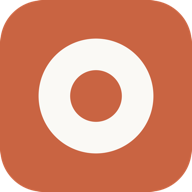
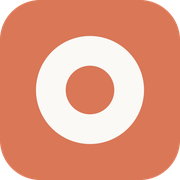
手机页面：跟随电脑主题（雾灰）、图标换成和电脑一致的圆环、过渡动画更顺、键盘弹出时输入框贴近键盘

diff --git a/mobile/app.js b/mobile/app.js
@@ -72,20 +72,16 @@ const ic = (n, cls = '') => `<svg class="i ${cls}" viewBox="0 0 24 24">${ICONS[n
 // Claude 的星芒：12 道粗细渐变、长短和角度略有参差的圆头光芒，围着一个实心的核。
 // 加载时（live）整体缓慢转动，每道光芒错开节拍一伸一缩，像在呼吸；writing 是更快的一档
 function spark(size = 28, live = false) {
-  const lens = [10, 7.6, 9.4, 7, 10.2, 7.5, 9.6, 6.8, 9.8, 7.3, 10, 7.8];
-  const tilt = [0, 2, -3, 1, 3, -2, 0, 2, -3, 1, 3, -1];
-  const rays = lens.map((l, i) => {
-    const t = (l - 1).toFixed(2);
-    return `<g transform="rotate(${i * 30 + tilt[i]})"><path class="r" style="--i:${i}" d="M-1.9 -0.8L-1 -${t}A1 1 0 0 1 1 -${t}L1.9 -0.8Z"/></g>`;
-  }).join('');
-  return `<svg class="spark${live ? ` live${live === 'writing' ? ' writing' : ''}` : ''}" width="${size}" height="${size}" viewBox="-11 -11 22 22" fill="currentColor" stroke="none"><circle r="2"/>${rays}</svg>`;
+  // 和电脑端的图标是同一个圆环（外圆 : 内圆 = 0.30 : 0.135）。思考中 = 圆环一呼一吸；正在写字 = 缺一段的圆环转圈，和电脑上的动画一样
+  const cls = 'spark' + (live ? ' live' + (live === 'writing' ? ' writing' : '') : '');
+  return `<svg class="${cls}" width="${size}" height="${size}" viewBox="-11 -11 22 22" fill="none" stroke="currentColor" stroke-width="5.5"><circle class="sr" r="7.25"/></svg>`;
 }
 
 function toast(text, ms = 2400) {
   document.querySelectorAll('.toast').forEach((t) => t.remove());
   const t = el('div', 'toast', esc(text));
   document.body.appendChild(t);
-  setTimeout(() => t.remove(), ms);
+  setTimeout(() => { t.classList.add('out'); setTimeout(() => t.remove(), 220); }, ms);
 }
 
 async function copyText(t) {
@@ -438,6 +434,18 @@ function applyPrefs() {
   r.style.setProperty('--msg-fs', { s: '15px', m: '16px', l: '17.5px', xl: '19px' }[prefs.size || 'm']);
 }
 applyPrefs();
+// 主题跟着电脑走：电脑上用「雾灰」，手机页面也换成对应的灰白风格和按时间分段的列表；旧版电脑没有这个字段就是默认主题
+const slateUi = () => document.documentElement.dataset.ui === 'slate';
+function applyUi() {
+  const ui = info && info.uiStyle === 'slate' ? 'slate' : 'classic';
+  const r = document.documentElement;
+  if (r.dataset.ui === ui) return;
+  r.dataset.ui = ui;
+  try { localStorage.setItem('crUi', ui); } catch (_) {}
+  if (window.setThemeColor) window.setThemeColor(prefs.theme || '');
+  if (typeof renderDrawerList === 'function' && document.querySelector('#d-list')) renderDrawerList();
+}
+let groupFilter = ''; // 雾灰主题：只看某个分组
 const openPreview = new Set();
 const askPicks = {};
 
@@ -468,6 +476,7 @@ async function refreshInfo() {
   const r = await call('info');
   if (r.ok === false) return;
   info = r;
+  applyUi();
   if (verOlder(r.hostVersion, NEED_HOST)) hostTooOld(`「${pair.name}」上的 Claude 远程助手${r.hostVersion ? '是 ' + r.hostVersion + '，' : '版本'}比较旧，手机上的部分功能用不了。`);
   try { crStore.setItem('crInfo', JSON.stringify(r)); } catch (_) {}
   if (pair && r.name && r.name !== pair.name) { pair.name = r.name; crStore.setItem('crPair', JSON.stringify(pair)); }
@@ -487,6 +496,7 @@ async function loadList() {
 
 // ---------- 页面骨架 ----------
 function boot() {
+  applyUi();
   const app = $('#app');
   app.innerHTML = '';
   if (pairing) return renderPairing(app);
@@ -564,10 +574,15 @@ function wire() {
   // 输入法弹出：整个界面贴着可视区域（iOS 会把页面往上推，这里抵消回来），输入框始终在键盘正上方
   if (window.visualViewport) {
     const vv = window.visualViewport;
+    let fullH = 0;
+    window.addEventListener('orientationchange', () => { fullH = 0; });
     const fit = () => {
       const app = $('#app');
       if (!app) return;
       app.style.height = vv.height + 'px';
+      // 键盘开着时，输入框下面不用再给屏幕底部的横条留位置（那一截会变成输入框和键盘之间的空白）
+      fullH = Math.max(fullH, vv.height);
+      app.classList.toggle('kb', vv.height < fullH - 150);
       app.style.transform = vv.offsetTop ? `translateY(${vv.offsetTop}px)` : '';
       if (stick) scrollBottom(true);
     };
@@ -657,6 +672,20 @@ function dragToClose(handle, panel, close, axis = 'y') {
     } else panel.style.transform = '';
     g = null;
   });
+}
+
+// 展开 / 收起的高度过渡：列表分段、步骤详情都用这一个
+function foldHeight(box, from, to, done) {
+  box.style.overflow = 'hidden';
+  box.style.height = from + 'px';
+  box.style.transition = 'none';
+  void box.offsetHeight;
+  box.style.transition = 'height .26s cubic-bezier(.32, .72, 0, 1)';
+  box.style.height = to + 'px';
+  let fired = false;
+  const end = () => { if (fired) return; fired = true; box.style.transition = ''; box.style.height = ''; box.style.overflow = ''; if (done) done(); };
+  box.addEventListener('transitionend', end, { once: true });
+  setTimeout(end, 320);
 }
 
 function drawer(on) {
@@ -991,7 +1020,11 @@ function renderSteps(list, key) {
   const labels = [...new Set(list.map((b) => b.label))];
   const text = running ? stepLine(running) : list.length > 1 ? labels.slice(0, 3).join('、') + (labels.length > 3 ? ' 等' : '') + ` · ${list.length} 步` : stepLine(list[0]);
   const head = el('button', 'sh', `<span class="ico">${ic(toolIcon(last.name))}</span><span class="sl">${esc(text)}</span>${running ? '<i class="st running"></i>' : ''}${ic('chevR', 'chev')}`);
-  head.onclick = () => { if (openSteps.has(key)) openSteps.delete(key); else openSteps.add(key); box.classList.toggle('open'); };
+  head.onclick = () => {
+    const sb = box.querySelector(':scope > .sb');
+    if (openSteps.has(key)) { openSteps.delete(key); if (sb) foldHeight(sb, sb.offsetHeight, 0, () => box.classList.remove('open')); else box.classList.remove('open'); box.classList.add('closing'); setTimeout(() => box.classList.remove('closing'), 330); }
+    else { openSteps.add(key); box.classList.add('open'); if (sb) foldHeight(sb, 0, sb.scrollHeight); }
+  };
   box.appendChild(head);
   const body = el('div', 'sb');
   list.forEach((b, i) => {
@@ -1528,7 +1561,14 @@ function sheet(fill) {
   dragToClose(s, s, closeSheet);
   return body;
 }
-function closeSheet() { document.querySelectorAll('.sheet-wrap').forEach((x) => x.remove()); }
+// 关闭弹层：面板滑下去、遮罩淡出，放完再拿掉（直接拿掉会「啪」一下消失）
+function closeSheet() {
+  document.querySelectorAll('.sheet-wrap:not(.out)').forEach((x) => {
+    x.classList.add('out');
+    x.style.pointerEvents = 'none';
+    setTimeout(() => x.remove(), 240);
+  });
+}
 
 function switchRow(label, on, onChange, iconName) {
   const li = el('button', 'li', `${ic(iconName)}<div class="tx">${label}</div><span class="sw${on ? ' on' : ''}"></span>`);
@@ -1800,11 +1840,16 @@ function renderDrawerList() {
     const gi = key === '__pinned' ? 'pin' : g ? 'folder' : 'list';
     const head = el('div', 'dsec' + (g ? ' grp' : ''), `<button class="dsh">${ic('chevD', 'dchev' + (closed ? ' closed' : ''))}<span class="dgi">${ic(gi)}</span><span class="dgn">${esc(title)}</span><em>${arr.length || ''}</em></button>`);
     head.querySelector('.dsh').onclick = () => {
-      if (collapsed.has(key)) collapsed.delete(key); else collapsed.add(key);
+      const closing = !collapsed.has(key);
+      if (closing) collapsed.add(key); else collapsed.delete(key);
       prefs.collapsed = [...collapsed];
       savePrefs();
+      const cur = head.nextElementSibling && head.nextElementSibling.classList.contains('dbody') ? head.nextElementSibling : null;
+      if (closing && cur) { head.querySelector('.dchev').classList.add('closed'); return foldHeight(cur, cur.offsetHeight, 0, renderDrawerList); }
       renderDrawerList();
+      if (!closing) { const nb = [...box.querySelectorAll('.dsec')].find((h) => h.dataset.key === key); const body = nb && nb.nextElementSibling; if (body && body.classList.contains('dbody')) foldHeight(body, 0, body.scrollHeight); }
     };
+    head.dataset.key = key;
     if (g) {
       const more = el('button', 'dmore', ic('dots'));
       more.onclick = () => groupSheet(g);
@@ -1819,6 +1864,62 @@ function renderDrawerList() {
       if (body.children.length) box.appendChild(body);
     }
   };
+  if (slateUi()) {
+    // 和电脑上「雾灰」主题一样：置顶 → 我的分组（默认收起，点一个就只看它）→ 今天 / 昨天 / 本周更早 / 各月份 → 历史版本
+    const gs = groups.filter((g) => !g.fixed && (!g.serverId || !vs || g.serverId === vs));
+    const fixed = new Set(groups.filter((g) => g.fixed).map((g) => g.id));
+    if (groupFilter && !gs.some((g) => g.id === groupFilter)) groupFilter = '';
+    const inG = groupFilter ? list.filter((s) => s.groupId === groupFilter) : list;
+    if (gs.length && !search) {
+      const open = !!prefs.groupsOpen || !!groupFilter;
+      const head = el('div', 'dsec', `<button class="dsh">${ic('chevD', 'dchev' + (open ? '' : ' closed'))}<span class="dgn">我的分组</span><em>${gs.length}</em></button>`);
+      head.querySelector('.dsh').onclick = () => {
+        prefs.groupsOpen = !open; if (open) groupFilter = ''; savePrefs();
+        const cur = head.nextElementSibling && head.nextElementSibling.classList.contains('dbody') ? head.nextElementSibling : null;
+        if (open && cur) { head.querySelector('.dchev').classList.add('closed'); return foldHeight(cur, cur.offsetHeight, 0, renderDrawerList); }
+        renderDrawerList();
+        const nb = box.querySelector('.dsec.gsec'); const body = nb && nb.nextElementSibling;
+        if (!open && body && body.classList.contains('dbody')) foldHeight(body, 0, body.scrollHeight);
+      };
+      head.classList.add('gsec');
+      box.appendChild(head);
+      if (open) {
+        const body = el('div', 'dbody');
+        for (const g of gs) {
+          const row = el('div', 'gfrow' + (groupFilter === g.id ? ' on' : ''), `<button class="gfb">${ic('folder')}<span>${esc(g.name + (multi && g.serverId && serverOf(g.serverId) ? ' · ' + serverOf(g.serverId).name : ''))}</span><em>${list.filter((x) => x.groupId === g.id).length}</em></button><button class="dmore" aria-label="分组操作">${ic('dots')}</button>`);
+          row.querySelector('.gfb').onclick = () => { groupFilter = groupFilter === g.id ? '' : g.id; renderDrawerList(); };
+          row.querySelector('.dmore').onclick = () => groupSheet(g);
+          body.appendChild(row);
+        }
+        box.appendChild(body);
+      }
+      if (groupFilter) {
+        const chip = el('div', 'gfchip', `<span>只看分组 <b>${esc(gs.find((g) => g.id === groupFilter).name)}</b></span><button>看全部</button>`);
+        chip.querySelector('button').onclick = () => { groupFilter = ''; renderDrawerList(); };
+        box.appendChild(chip);
+      }
+    }
+    section('置顶', inG.filter((s) => s.pinned), '__pinned');
+    const day0 = new Date(); day0.setHours(0, 0, 0, 0);
+    const bucket = (t) => {
+      const d = new Date(t || 0);
+      if (t >= day0.getTime()) return '今天';
+      if (t >= day0.getTime() - 86400000) return '昨天';
+      if (t >= day0.getTime() - 6 * 86400000) return '本周更早';
+      return (d.getFullYear() === day0.getFullYear() ? '' : d.getFullYear() + ' 年 ') + (d.getMonth() + 1) + ' 月';
+    };
+    const secs = [];
+    for (const x of inG.filter((s) => !s.pinned && !fixed.has(s.groupId)).sort((a, b) => (b.updatedAt || 0) - (a.updatedAt || 0))) {
+      const k = bucket(x.updatedAt);
+      if (!secs.length || secs[secs.length - 1][0] !== k) secs.push([k, []]);
+      secs[secs.length - 1][1].push(x);
+    }
+    for (const [k, arr] of secs) section(k, arr, 't:' + k);
+    for (const g of groups) if (g.fixed) section(g.name, inG.filter((s) => !s.pinned && s.groupId === g.id), g.id, null);
+    if (!inG.length) box.appendChild(el('div', 'empty', search ? '没有找到' : groupFilter ? '这个分组里还没有对话' : hostOnline ? '还没有对话' : '等电脑上线…'));
+    renderPendingHint();
+    return;
+  }
   section('置顶', list.filter((s) => s.pinned), '__pinned');
   const rest = list.filter((s) => !s.pinned);
   // 分组按服务器各管各的：选了某台服务器就只显示它的；看全部时在分组名后面带上服务器名，免得同名的分不清
@@ -1881,7 +1982,7 @@ function settingsPage(refresh) {
     requestAnimationFrame(() => page.classList.add('on'));
     if (hostOnline) refreshInfo().then(() => settingsPage(true));
   }
-  const close = () => { page.classList.remove('on'); setTimeout(() => page.remove(), 260); };
+  const close = () => { page.classList.remove('on'); setTimeout(() => page.remove(), 380); };
   page.innerHTML = `<header class="top"><button class="ib" id="p-back" aria-label="返回">${ic('back')}</button><div class="ttl"><button><span>设置</span></button></div><span class="ib"></span></header>`;
   const body = el('div', 'pbody');
   page.appendChild(body);

diff --git a/mobile/style.css b/mobile/style.css
@@ -452,15 +452,14 @@ button.step:active { background: var(--bubble); }
 .ditem .dot.error { background: var(--danger); }
 .ditem .dot.ask, .ditem .dot.plan { background: var(--warn); }
 
-/* Claude 星芒，照官方的做法：一组固定的帧、每帧停一小会儿「翻页」，不是平滑缓动。
-   思考：9 帧 × 90ms，从圆点放射出去、停两格、再收回；书写：8 帧 × 90ms，满星轻轻抖动 */
-.spark.live { animation: sp-spin 12s linear infinite; }
-.spark.live .r { transform-box: fill-box; transform-origin: 50% 100%; animation: sp-breathe 2.2s ease-in-out infinite; animation-delay: calc(var(--i) * -.18s); }
-.spark.live.writing { animation-duration: 5s; }
-.spark.live.writing .r { animation-duration: 1.4s; }
-@keyframes sp-spin { to { transform: rotate(360deg); } }
-@keyframes sp-breathe { 0%, 100% { transform: scaleY(.8); } 50% { transform: scaleY(1.04); } }
-@media (prefers-reduced-motion: reduce) { .spark.live, .spark.live .r { animation: none; } }
+/* 图标：和电脑端同一个圆环。思考中 = 一呼一吸；正在写字 = 缺一段的圆环转圈（和电脑上的两种动画一一对应） */
+.spark { overflow: visible; }
+.spark.live { transform-origin: 50% 50%; animation: sp-breath 2.4s ease-in-out infinite; }
+.spark.live.writing { animation: sp-rot 1.1s linear infinite; }
+.spark.live.writing .sr { stroke-linecap: round; stroke-dasharray: 28 17.55; }
+@keyframes sp-breath { 0%, 100% { transform: scale(.74); opacity: .7; } 50% { transform: scale(1); opacity: 1; } }
+@keyframes sp-rot { to { transform: rotate(360deg); } }
+@media (prefers-reduced-motion: reduce) { .spark.live { animation: none; } }
 .tf.codein { text-align: center; font: 600 26px/1.4 ui-monospace, "SF Mono", Menlo, Consolas, monospace; letter-spacing: .14em; text-transform: uppercase; padding: 12px; }
 .remember { display: flex; gap: 10px; align-items: flex-start; margin: 12px 2px 4px; font-size: 14px; color: var(--text); cursor: pointer; }
 .remember input { margin-top: 3px; width: 18px; height: 18px; accent-color: var(--accent); }
@@ -490,3 +489,113 @@ button.step:active { background: var(--bubble); }
 .fchip.tap:active { background: var(--bubble); }
 .sd .sd-prev { display: inline-flex; align-items: center; gap: 6px; margin: 6px 0 2px; }
 .sd .sd-prev svg.i { width: 16px; height: 16px; }
+
+/* ================= 雾灰主题（电脑上用「雾灰」时手机页面跟着换）：只在 <html data-ui="slate"> 时生效 ================= */
+.spark { color: #d97757; } /* 图标的橙色，两个主题、深浅色都一样 */
+:root[data-ui="slate"] {
+  --bg: #ffffff; --surface: #ffffff; --drawer: #f4f5f6; --line: #e4e6e9; --line-2: #d5d8dc;
+  --text: #1b1b1b; --text-2: #5f6368; --text-3: #8d9196;
+  --accent: #2c7be5; --accent-press: #1f6ad0; --accent-soft: #e8f0fc;
+  --bubble: #f1f2f4; --code: #f4f5f7; --danger: #c0392b; --ok: #2c7be5; --warn: #d97706;
+  --shadow: 0 1px 2px rgba(0, 0, 0, .05), 0 6px 20px rgba(0, 0, 0, .07);
+  --serif: var(--font);
+}
+@media (prefers-color-scheme: dark) { :root[data-ui="slate"]:not([data-theme="light"]) { --bg: #1b1b1c; --surface: #2a2a2c; --drawer: #232427; --line: #343538; --line-2: #45464b;
+  --text: #ececec; --text-2: #b0b3b8; --text-3: #82868d;
+  --accent: #4a9af5; --accent-press: #63a9f8; --accent-soft: #263447;
+  --bubble: #2c2d30; --code: #242426; --danger: #e0796a; --ok: #6ea0ff; --warn: #e9a23b;
+  --shadow: 0 1px 2px rgba(0, 0, 0, .25), 0 8px 28px rgba(0, 0, 0, .3); } }
+:root[data-ui="slate"][data-theme="dark"] { --bg: #1b1b1c; --surface: #2a2a2c; --drawer: #232427; --line: #343538; --line-2: #45464b;
+  --text: #ececec; --text-2: #b0b3b8; --text-3: #82868d;
+  --accent: #4a9af5; --accent-press: #63a9f8; --accent-soft: #263447;
+  --bubble: #2c2d30; --code: #242426; --danger: #e0796a; --ok: #6ea0ff; --warn: #e9a23b;
+  --shadow: 0 1px 2px rgba(0, 0, 0, .25), 0 8px 28px rgba(0, 0, 0, .3); }
+/* 顶栏：圆形按钮 */
+:root[data-ui="slate"] .top { padding: calc(var(--top) + 8px) 12px 8px; }
+:root[data-ui="slate"] .top .ib { width: 40px; height: 40px; border-radius: 50%; background: var(--surface); border: 1px solid var(--line); box-shadow: 0 1px 3px rgba(0, 0, 0, .05); color: var(--text); }
+:root[data-ui="slate"] .top .ttl button { font-weight: 500; }
+:root[data-ui="slate"] .top .ib.alert::after { top: 1px; right: 1px; }
+/* 「有对话在等你」：灰色实心块 + 橙色小圆点，和电脑上一样 */
+:root[data-ui="slate"] .pend { background: var(--bubble); border-color: transparent; color: var(--text); font-weight: 400; }
+/* 首页 */
+:root[data-ui="slate"] .home h1 { font-weight: 500; font-size: 26px; letter-spacing: 0; }
+:root[data-ui="slate"] .pill { background: var(--bubble); border-color: transparent; color: var(--text); }
+/* 输入框：发送按钮黑白 */
+:root[data-ui="slate"] .cbox { border-radius: 26px; border-color: var(--line-2); }
+:root[data-ui="slate"] .send { background: var(--text); color: var(--bg); }
+:root[data-ui="slate"] .crow .cb { border-color: transparent; background: var(--bubble); }
+:root[data-ui="slate"] .btn.primary { background: var(--text); border-color: var(--text); color: var(--bg); }
+:root[data-ui="slate"] .btn.primary:active { background: var(--text); opacity: .85; }
+:root[data-ui="slate"] .btn:not(.primary):not(.danger) { background: var(--bubble); border-color: transparent; }
+/* 对话列表：一行一条（标题在左、时间在右），按时间分段，没有文件夹图标和竖线 */
+:root[data-ui="slate"] .dh { padding: 14px 16px 12px; }
+:root[data-ui="slate"] .dh b { font-weight: 600; font-size: 19px; }
+:root[data-ui="slate"] .dh .ib { border-radius: 50%; }
+:root[data-ui="slate"] .dsearch { background: var(--surface); border: 1px solid var(--line); border-radius: 999px; height: 42px; }
+:root[data-ui="slate"] .dsrv { background: var(--surface); border-radius: 999px; }
+:root[data-ui="slate"] .dnew { position: absolute; right: 16px; bottom: calc(var(--bottom) + 66px); z-index: 2; margin: 0; padding: 12px 18px; border-radius: 999px; background: var(--text); color: var(--bg); font-weight: 500; box-shadow: 0 6px 20px rgba(0, 0, 0, .22); }
+:root[data-ui="slate"] .dnew:active { background: var(--text); opacity: .85; }
+:root[data-ui="slate"] .dlist { padding: 0 8px 84px; }
+:root[data-ui="slate"] .dsec { margin-top: 2px; border-top: 0; padding: 12px 2px 0; }
+:root[data-ui="slate"] .dsec .dsh { font-size: 12.5px; font-weight: 500; color: var(--text-3); gap: 5px; }
+:root[data-ui="slate"] .dsec .dsh .dgi { display: none; }
+:root[data-ui="slate"] .dsec .dsh .dgn { flex: none; }
+:root[data-ui="slate"] .dsec .dsh em { background: none; padding: 0; min-width: 0; font-weight: 400; margin-right: auto; }
+:root[data-ui="slate"] .dsec svg.dchev { order: 3; margin-left: -2px; }
+:root[data-ui="slate"] .dbody { margin: 0; padding-left: 0; border-left: 0; }
+:root[data-ui="slate"] .ditem, :root[data-ui="slate"] .dbody .ditem { padding: 11px 10px; border-radius: 12px; }
+:root[data-ui="slate"] .ditem .t { display: flex; align-items: baseline; gap: 10px; }
+:root[data-ui="slate"] .ditem .t b { flex: 1; min-width: 0; font-size: 15.5px; }
+:root[data-ui="slate"] .ditem .t span { flex: none; max-width: 46%; }
+:root[data-ui="slate"] .ditem.waiting { box-shadow: none; animation: none; }
+:root[data-ui="slate"] .ditem.waiting .t b::before { content: ''; display: inline-block; width: 7px; height: 7px; border-radius: 50%; background: var(--warn); margin-right: 8px; vertical-align: 2px; }
+:root[data-ui="slate"] .ditem.waiting .t span { color: var(--warn); }
+:root[data-ui="slate"] .ditem .ptag { display: none; }
+:root[data-ui="slate"] .dfoot { border-top: 0; }
+/* 我的分组 */
+.gfrow { display: flex; align-items: center; border-radius: 12px; }
+.gfrow.on { background: var(--bubble); }
+.gfrow .gfb { flex: 1; min-width: 0; display: flex; align-items: center; gap: 10px; padding: 10px; text-align: left; font-size: 15px; }
+.gfrow .gfb svg.i { width: 18px; height: 18px; color: var(--text-2); }
+.gfrow .gfb span { flex: 1; min-width: 0; overflow: hidden; text-overflow: ellipsis; white-space: nowrap; }
+.gfrow .gfb em { font-style: normal; font-size: 12.5px; color: var(--text-3); }
+.gfrow .dmore { width: 34px; height: 34px; display: grid; place-items: center; color: var(--text-3); }
+.gfchip { display: flex; align-items: center; gap: 8px; margin: 8px 4px 0; padding: 8px 12px; border-radius: 12px; background: var(--surface); border: 1px solid var(--line); font-size: 14px; }
+.gfchip span { flex: 1; min-width: 0; overflow: hidden; text-overflow: ellipsis; white-space: nowrap; }
+.gfchip b { font-weight: 500; }
+.gfchip button { color: var(--accent); font-size: 13.5px; flex: none; }
+/* 步骤卡片、弹出面板 */
+:root[data-ui="slate"] .steps { border-radius: 12px; }
+:root[data-ui="slate"] .sheet .seg button { background: var(--bubble); border-color: transparent; }
+:root[data-ui="slate"] .sheet .seg button.on { background: var(--accent-soft); border-color: var(--accent); }
+:root[data-ui="slate"] .top .ib:empty { visibility: hidden; }
+
+/* ================= 手感：过渡统一成 iOS 那种「先快后慢、带一点余量」的曲线，点按有回应，出现和消失都有过程 ================= */
+:root { --ease: cubic-bezier(.32, .72, 0, 1); }
+.drawer { transition: transform .38s var(--ease); }
+.scrim { transition: opacity .32s ease; }
+.page { transition: transform .38s var(--ease); }
+.viewer { transition: transform .34s var(--ease); }
+.sheet { animation: up .38s var(--ease); }
+.sheet-wrap { animation: fade .28s ease; transition: background-color .22s ease; }
+.sheet-wrap.out { background-color: transparent; }
+.sheet-wrap.out .sheet { transition: transform .24s cubic-bezier(.4, 0, 1, 1); transform: translateY(105%) !important; }
+.toast { animation: toast-in .26s var(--ease); transition: opacity .2s ease, transform .2s ease; }
+.toast.out { opacity: 0; transform: translate(-50%, -8px); }
+@keyframes toast-in { from { opacity: 0; transform: translate(-50%, -10px); } }
+/* 点下去有回应：按钮轻轻缩一点，列表项立刻变色、松手慢慢退 */
+.top .ib, .send, .crow .cb, .btn, .pill, .dnew, .tobottom, .opt { transition: transform .16s var(--ease), background-color .2s ease, opacity .15s ease; }
+.top .ib:active, .send:active, .crow .cb:active, .btn:active, .pill:active, .dnew:active, .tobottom:active { transform: scale(.94); }
+.ditem, .sheet .li, .gfrow, .dsec .dsh, .steps > .sh { transition: background-color .28s ease; }
+.ditem:active, .sheet .li:active, .dsec .dsh:active { transition-duration: 0s; }
+/* 新出现的消息从下面浮上来；切换对话时内容淡入 */
+.m-user { animation: msg-in .3s var(--ease); }
+.home { animation: view-in .3s ease; }
+@keyframes msg-in { from { opacity: 0; transform: translateY(10px); } }
+@keyframes view-in { from { opacity: 0; } }
+.steps > .sh .chev, .dsec svg.dchev, .step .row .chev { transition: transform .26s var(--ease); }
+.steps.closing > .sh .chev { transform: none; }
+.sw, .sw::after { transition-duration: .26s; transition-timing-function: var(--ease); }
+@media (prefers-reduced-motion: reduce) { .m-user, .home, .sheet, .toast { animation: none; } }
+/* 键盘开着：输入框贴近键盘，不再给屏幕底部横条留空 */
+#app.kb .composer { padding-bottom: 8px; }

diff --git a/mobile/index.html b/mobile/index.html
@@ -14,7 +14,7 @@
   <link rel="manifest" href="manifest.json" />
   <script src="theme.js"></script>
   <!-- 样式表还没到之前就先把底色定下来：从主屏幕打开时不会先黑一下再白一下 -->
-  <style>html,body{margin:0;background:#faf9f5}@media (prefers-color-scheme:dark){html:not([data-theme=light]),html:not([data-theme=light]) body{background:#262624}}html[data-theme=dark],html[data-theme=dark] body{background:#262624}</style>
+  <style>html,body{margin:0;background:#faf9f5}@media (prefers-color-scheme:dark){html:not([data-theme=light]),html:not([data-theme=light]) body{background:#262624}}html[data-theme=dark],html[data-theme=dark] body{background:#262624}html[data-ui=slate],html[data-ui=slate] body{background:#fff}@media (prefers-color-scheme:dark){html[data-ui=slate]:not([data-theme=light]),html[data-ui=slate]:not([data-theme=light]) body{background:#1b1b1c}}html[data-ui=slate][data-theme=dark],html[data-ui=slate][data-theme=dark] body{background:#1b1b1c}</style>
   <link rel="stylesheet" href="style.css" />
   <title>Claude 远程助手</title>
 </head>

diff --git a/mobile/theme.js b/mobile/theme.js
@@ -2,8 +2,11 @@
 // 从主屏幕打开时，iPhone 在启动那一刻按「主题色」给顶部状态栏上色，之后基本不再改，
 // 所以选了「浅色 / 深色」时只留一个不分系统模式的主题色，跟随系统时才留浅色、深色两个让系统挑。
 (function () {
-  var LIGHT = '#faf9f5', DARK = '#262624';
+  // 主题跟电脑走（见 app.js 的 applyUi）：上次是「雾灰」就先按它上色
+  try { document.documentElement.dataset.ui = localStorage.getItem('crUi') === 'slate' ? 'slate' : 'classic'; } catch (e) {}
   function setThemeColor(theme) {
+    var slate = document.documentElement.dataset.ui === 'slate';
+    var LIGHT = slate ? '#ffffff' : '#faf9f5', DARK = slate ? '#1b1b1c' : '#262624';
     var head = document.head;
     var old = head.querySelectorAll('meta[name="theme-color"]');
     for (var i = 0; i < old.length; i++) old[i].remove();

diff --git a/mobile/sw.js b/mobile/sw.js
@@ -1,6 +1,6 @@
 // 手机页面秒开：先直接用上次缓存的页面（不等网络），同时在后台取新版本存起来，下次打开就是新的。
 // 中转程序升级后，页面发现版本变了会主动刷新缓存并重新加载一次（见 app.js 的 checkShell）。
-const CACHE = 'cr-shell-v10';
+const CACHE = 'cr-shell-v11';
 const SHELL = ['./', 'theme.js', 'style.css', 'app.js', 'e2e.js', 'vendor/nacl-fast.min.js', 'vendor/marked.js', 'vendor/purify.js', 'icon.png', 'manifest.json'];
 
 self.addEventListener('install', (e) => {

diff --git a/src/renderer/remote.js b/src/renderer/remote.js
@@ -274,6 +274,7 @@ const remoteCtl = (() => {
       usage: (data.ui.usage || {})[data.currentServer] || null,
       exts: typeof KNOWN_EXT === 'string' ? KNOWN_EXT : '',
       hostVersion: hostVer,
+      uiStyle: data.settings.uiStyle === 'slate' ? 'slate' : 'classic', // 手机页面跟着电脑用同一个主题
       watchPhrases: watchPhrases(), // 手机页面比电脑新、要用到电脑还没有的功能时，提示去更新电脑上的软件
     };
   }
